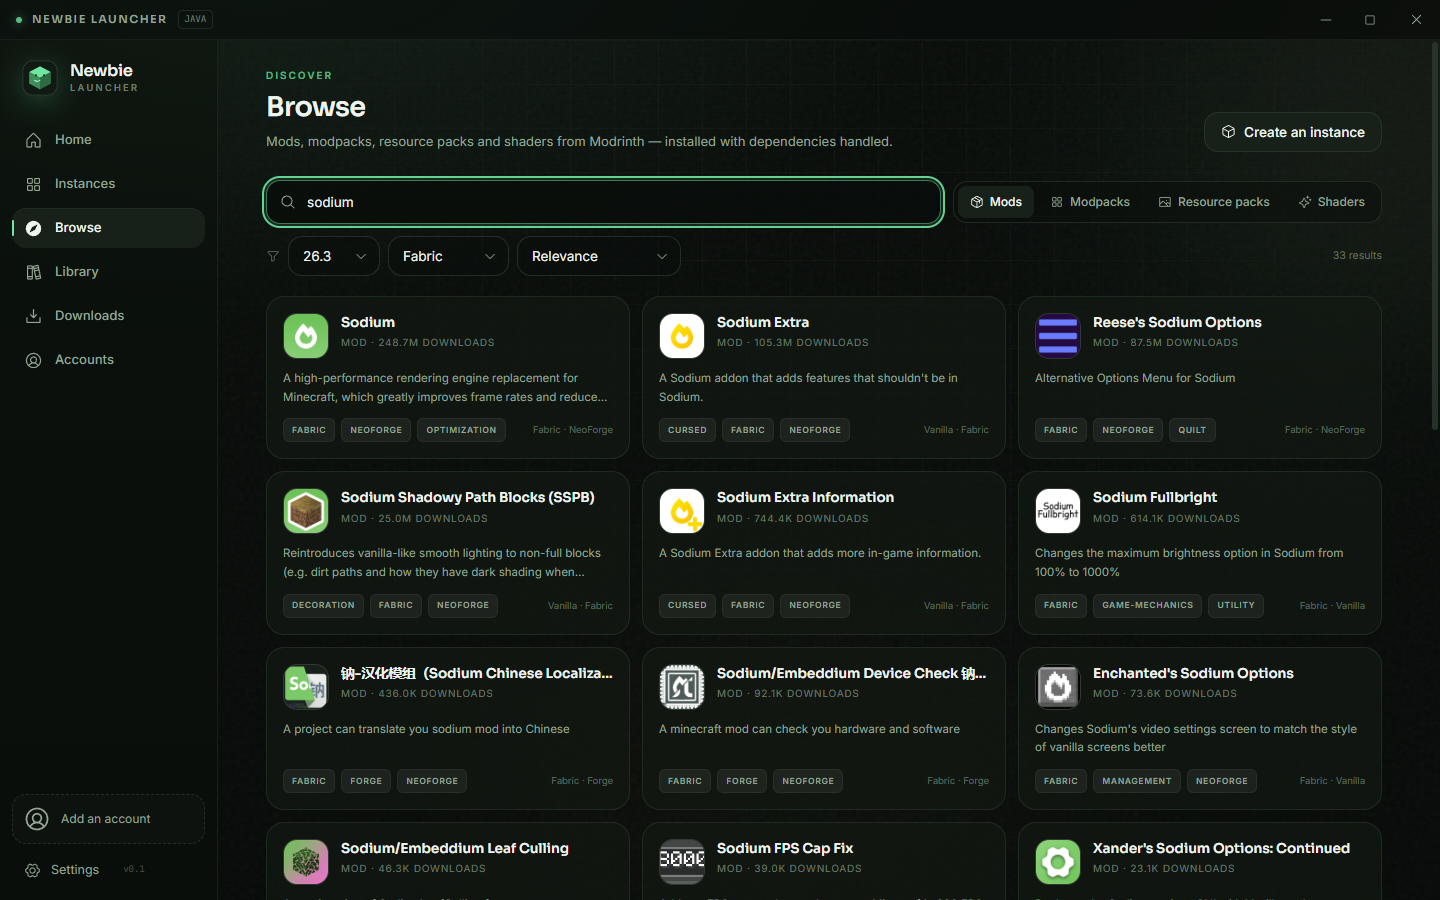
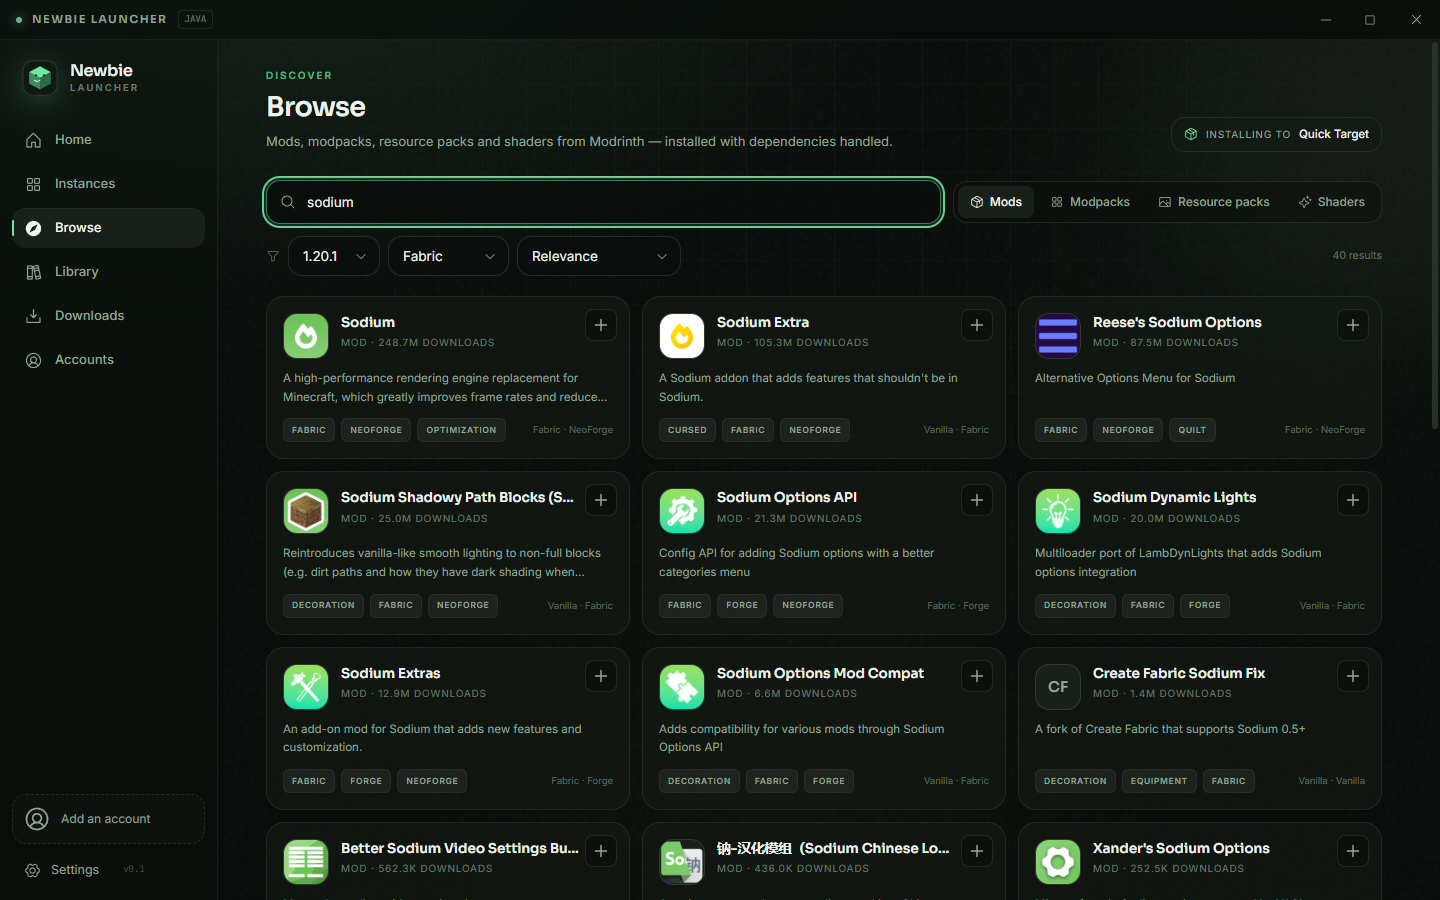
feat: add one-click install buttons to Browse cards

diff --git a/src/renderer/pages/BrowsePage.tsx b/src/renderer/pages/BrowsePage.tsx
@@ -3,19 +3,22 @@ import { useNavigate, useSearchParams } from 'react-router-dom'
 import { useQueryClient } from '@tanstack/react-query'
 import {
   ArrowClockwise,
+  Check,
+  CircleNotch,
   Compass,
   Cube,
   Funnel,
   Image,
   MagnifyingGlass,
   Package,
+  Plus,
   Sparkle,
   SquaresFour
 } from '@phosphor-icons/react'
 import type { AddonType, LoaderType, ModrinthHit, SearchPage, SearchQuery } from '@shared/types'
 import { useActiveInstance, useInstances, useMinecraftVersions, useSearch, qk } from '../hooks/queries'
-import { useUi } from '../store/ui'
-import { addonTypeLabel, formatNumber, loaderLabel } from '../lib/utils'
+import { toast, useUi } from '../store/ui'
+import { addonTypeLabel, errorMessage, formatNumber, loaderLabel } from '../lib/utils'
 import { PageHeader } from '../components/PageHeader'
 import { ProjectIcon } from '../components/ui/BlockIcon'
 import { Badge, Card, EmptyState, Input, Segmented, Select, Skeleton } from '../components/ui/primitives'
@@ -47,6 +50,7 @@ export function BrowsePage() {
   const [sort, setSort] = useState<NonNullable<SearchQuery['sort']>>('relevance')
   const [offset, setOffset] = useState(0)
   const [accumulated, setAccumulated] = useState<SearchPage['hits']>([])
+  const [quickInstalling, setQuickInstalling] = useState<Record<string, boolean>>({})
 
   const targetInstance = instances.find((instance) => instance.id === params.get('instance')) ?? active
 
@@ -104,6 +108,42 @@ export function BrowsePage() {
 
   const results = accumulated
   const canLoadMore = (search.data?.offset ?? 0) + (search.data?.limit ?? 0) < (search.data?.total ?? 0)
+
+  const quickInstall = async (data: ReturnType<typeof normalizeHit>): Promise<void> => {
+    if (!targetInstance) {
+      toast('info', 'Choose an instance first', 'Create or open an instance, then use + to install.')
+      return
+    }
+    if (data.type === 'modpack') {
+      openModal('modDetail', { id: data.id })
+      return
+    }
+    if (data.type === 'mod' && targetInstance.loader === 'vanilla') {
+      toast('info', 'Vanilla cannot load mods', 'Open the details to switch this instance to a mod loader.')
+      openModal('modDetail', { id: data.id })
+      return
+    }
+    if (targetInstance.addons.some((addon) => addon.projectId === data.id)) {
+      toast('info', 'Already installed', `${data.title} is already in ${targetInstance.name}.`)
+      return
+    }
+    setQuickInstalling((current) => ({ ...current, [data.id]: true }))
+    try {
+      await window.newbie.addons.install(targetInstance.id, { projectId: data.id, versionId: '' })
+      await queryClient.invalidateQueries({ queryKey: qk.instances })
+      await queryClient.invalidateQueries({ queryKey: qk.instance(targetInstance.id) })
+      await queryClient.invalidateQueries({ queryKey: qk.disk })
+      toast('success', 'Installed', `${data.title} was added to ${targetInstance.name}`)
+    } catch (error) {
+      toast('error', 'Install failed', errorMessage(error))
+    } finally {
+      setQuickInstalling((current) => {
+        const next = { ...current }
+        delete next[data.id]
+        return next
+      })
+    }
+  }
 
   return (
     <div>
@@ -199,16 +239,59 @@ export function BrowsePage() {
           <div className="grid gap-3 sm:grid-cols-2 xl:grid-cols-3">
             {results.map((hit) => {
               const data = normalizeHit(hit)
+              const installed = targetInstance?.addons.some((addon) => addon.projectId === data.id) ?? false
+              const installing = Boolean(quickInstalling[data.id])
+              const quickLabel = !targetInstance
+                ? 'Choose an instance first'
+                : installed
+                  ? `${data.title} is already installed`
+                  : data.type === 'modpack'
+                    ? 'Choose a pack version and target'
+                    : data.type === 'mod' && targetInstance.loader === 'vanilla'
+                      ? 'Open details to enable a mod loader'
+                      : `Install ${data.title} to ${targetInstance.name}`
               return (
-                <button
+                <div
                   key={data.id}
                   onClick={() => openModal('modDetail', { id: data.id })}
-                  className="card-hover flex min-h-[148px] flex-col rounded-2xl border border-line/55 bg-card/65 p-4 text-left"
+                  className="card-hover relative flex min-h-[148px] cursor-pointer flex-col rounded-2xl border border-line/55 bg-card/65 p-4 text-left"
                 >
-                  <div className="flex items-start gap-3">
+                  <button
+                    type="button"
+                    disabled={!targetInstance || installed || installing}
+                    title={quickLabel}
+                    aria-label={quickLabel}
+                    onClick={(event) => {
+                      event.stopPropagation()
+                      void quickInstall(data)
+                    }}
+                    className={
+                      installed
+                        ? 'absolute right-3 top-3 flex h-8 w-8 items-center justify-center rounded-lg border border-grass/30 bg-grass/10 text-grass'
+                        : 'absolute right-3 top-3 flex h-8 w-8 items-center justify-center rounded-lg border border-line/60 bg-canvas/60 text-muted transition-colors hover:border-grass/40 hover:bg-grass/10 hover:text-grass disabled:pointer-events-none disabled:opacity-35'
+                    }
+                  >
+                    {installing ? (
+                      <CircleNotch size={15} className="animate-spin" />
+                    ) : installed ? (
+                      <Check size={15} weight="bold" />
+                    ) : (
+                      <Plus size={16} weight="bold" />
+                    )}
+                  </button>
+                  <div className="flex items-start gap-3 pr-8">
                     <ProjectIcon url={data.icon} name={data.title} size={46} className="rounded-xl" />
                     <div className="min-w-0 flex-1">
-                      <div className="truncate font-display text-[13.5px] font-semibold text-ink">{data.title}</div>
+                      <button
+                        type="button"
+                        onClick={(event) => {
+                          event.stopPropagation()
+                          openModal('modDetail', { id: data.id })
+                        }}
+                        className="block max-w-full truncate text-left font-display text-[13.5px] font-semibold text-ink outline-none focus-visible:underline"
+                      >
+                        {data.title}
+                      </button>
                       <div className="mt-0.5 text-[10px] uppercase tracking-[0.08em] text-muted/65">
                         {addonTypeLabel(data.type)} · {formatNumber(data.downloads)} downloads
                       </div>
@@ -225,7 +308,7 @@ export function BrowsePage() {
                       </span>
                     )}
                   </div>
-                </button>
+                </div>
               )
             })}
           </div>

diff --git a/src/main/services/addons.ts b/src/main/services/addons.ts
@@ -63,16 +63,20 @@ async function installRef(
   visited.add(key)
 
   const project = await getModrinthProject(ref.projectId)
+  const type = projectTypeToAddonType(project.project_type)
   const version = ref.versionId
     ? await getModrinthVersion(ref.versionId)
     : selectBestVersion(
-        await getModrinthVersions(ref.projectId, instance.versionId, instance.loader),
+        await getModrinthVersions(
+          ref.projectId,
+          instance.versionId,
+          type === 'mod' || type === 'modpack' ? instance.loader : undefined
+        ),
         instance.versionId,
         instance.loader,
-        projectTypeToAddonType(project.project_type)
+        type
       )
   if (!version) throw new Error(`${project.title} has no version compatible with ${instance.versionId}`)
-  const type = projectTypeToAddonType(project.project_type)
   if (type === 'mod' && instance.loader === 'vanilla') {
     throw new Error(
       'This instance is vanilla and cannot load mods. Change the instance to Fabric, Quilt, Forge or NeoForge first.'

diff --git a/src/shared/constants.ts b/src/shared/constants.ts
@@ -1,6 +1,6 @@
 export const APP_NAME = 'Newbie Launcher'
 export const APP_ID = 'com.newbielauncher.app'
-export const APP_VERSION = '0.1.3'
+export const APP_VERSION = '0.1.4'
 export const GITHUB_OWNER = 'Deepma1ya'
 export const GITHUB_REPO = 'Newbie-Launcher'
 export const GITHUB_URL = `https://github.com/${GITHUB_OWNER}/${GITHUB_REPO}`

diff --git a/docs/release-notes.md b/docs/release-notes.md
@@ -1,17 +1,20 @@
-# Newbie Launcher 0.1.3
+# Newbie Launcher 0.1.4
 
-CurseForge has been removed.
+Faster add-on installation.
 
-## Removed
+## Added
 
-- The CurseForge provider, browser tab and API-key requirement.
-- CurseForge account settings, IPC endpoints, services and modpack handling.
-- CurseForge mentions from the README, settings, onboarding and browse screens.
+- Every Browse card now has a **+** button. It installs the latest compatible version of that project into the currently selected instance without opening the detail view.
+- Required dependencies are resolved automatically, and the card switches to a checkmark once the project is installed.
+- Modpacks use the same button to open their target/version chooser, because a whole pack needs a compatible instance selection.
 
-## Kept
+## Fixed
 
-- Modrinth browsing, dependency resolution, updates and modpacks.
-- Installing a modpack into a compatible existing instance.
-- Existing locally installed files are untouched. Any legacy CurseForge add-on records are migrated to local records so they can still be toggled, removed or rescanned, but they are no longer update-checked or downloaded.
+- Quick installation chooses the correct version filters for resource packs and shaders instead of applying the mod loader filter to them.
+- Browse cards no longer nest interactive controls incorrectly. Mouse clicks still open details, while the title and + button remain keyboard-accessible.
 
-Modrinth needs no account, key or approval process, so the default browsing and install flow now works for everyone out of the box.
+## Notes
+
+- + is disabled until an instance is selected.
+- A vanilla instance cannot accept mods quickly; the button opens the detail view so the instance can be switched to Fabric/Forge/Quilt/NeoForge.
+- Everything from 0.1.3 (CurseForge removal) is included.

diff --git a/README.md b/README.md
@@ -24,7 +24,7 @@ Installers are published on the [Releases](https://github.com/Deepma1ya/Newbie-L
 | **Loaders** | Vanilla, Fabric, Quilt, Forge and NeoForge. Forge/NeoForge run the official installer and capture its result |
 | **Java** | Detects installed JDKs/JREs, then downloads Eclipse Temurin JRE 8/17/21+ from Adoptium when a version needs it |
 | **Accounts** | Microsoft OAuth sign-in, TLauncher nickname + skin sync, offline profiles, and generic authlib/Yggdrasil servers |
-| **Browse** | Modrinth. Required dependencies are resolved recursively; modpacks install as new instances or into a matching existing instance. No API key required. |
+| **Browse** | Modrinth. Use the `+` button to install straight into the selected instance, with dependencies resolved. Modpacks install as new instances or into a matching existing instance. No API key required. |
 | **Loadouts** | Named add-on sets with **full offline backup** or **download on switch** storage modes |
 | **Updating** | Check and update mods, resource packs and shaders in one click; version changes carry add-ons forward |
 | **Repair** | Duplicate mods, wrong-loader jars, incompatible mods, missing dependencies and missing files — one-click safe fixes with a backup first |
